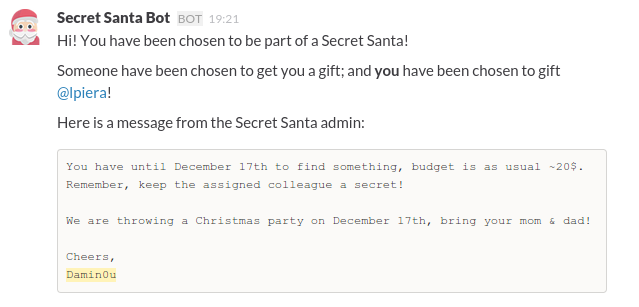
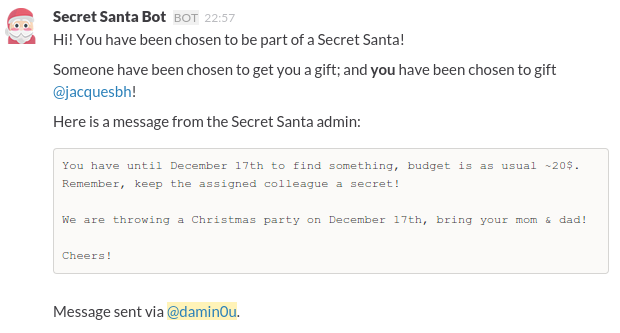
Store who is doing the request, and blame him :smiling_imp:

diff --git a/src/Controller/SantaController.php b/src/Controller/SantaController.php
@@ -3,6 +3,7 @@
 namespace Joli\SlackSecretSanta\Controller;
 
 use Bramdevries\Oauth\Client\Provider\Slack;
+use CL\Slack\Payload\AuthTestPayload;
 use CL\Slack\Transport\ApiClient;
 use Joli\SlackSecretSanta\SecretDispatcher;
 use Joli\SlackSecretSanta\UserExtractor;
@@ -16,8 +17,9 @@ use Symfony\Component\Routing\RouterInterface;
 
 class SantaController
 {
-    const STATE_SESSION_KEY = 'santa.slack.state';
-    const TOKEN_SESSION_KEY = 'santa.slack.token';
+    const STATE_SESSION_KEY   = 'santa.slack.state';
+    const TOKEN_SESSION_KEY   = 'santa.slack.token';
+    const USER_ID_SESSION_KEY = 'santa.slack.user_id';
 
     private $session;
     private $router;
@@ -43,7 +45,8 @@ class SantaController
 
     public function run(Request $request)
     {
-        $token = $this->session->get(self::TOKEN_SESSION_KEY);
+        $token  = $this->session->get(self::TOKEN_SESSION_KEY);
+        $userId = $this->session->get(self::USER_ID_SESSION_KEY);
 
         if (!($token instanceof AccessToken)) {
             return new RedirectResponse($this->router->generate('authenticate'));
@@ -63,7 +66,7 @@ class SantaController
 
             if (count($errors) < 1) {
                 $secretDispatcher = new SecretDispatcher($apiClient);
-                $result           = $secretDispatcher->dispatchTo($selectedUsers, $message);
+                $result           = $secretDispatcher->dispatchTo($selectedUsers, $message, $userId);
 
                 $request->getSession()->set(
                     $this->getResultSessionKey(
@@ -162,9 +165,19 @@ class SantaController
                 'code' => $request->query->get('code'),
             ]);
 
-            $this->session->set(self::TOKEN_SESSION_KEY, $token);
+            // Who Am I?
+            $test       = new AuthTestPayload();
+            $apiClient  = new ApiClient($token->getToken());
+            $response   = $apiClient->send($test);
 
-            return new RedirectResponse($this->router->generate('run'));
+            if ($response->isOk()) {
+                $this->session->set(self::TOKEN_SESSION_KEY, $token);
+                $this->session->set(self::USER_ID_SESSION_KEY, $response->getUserId());
+
+                return new RedirectResponse($this->router->generate('run'));
+            } else {
+                return new RedirectResponse($this->router->generate('homepage'));
+            }
         }
     }
 

diff --git a/src/SecretDispatcher.php b/src/SecretDispatcher.php
@@ -20,12 +20,13 @@ class SecretDispatcher
     }
 
     /**
-     * @param string[]    $userIds
+     * @param string[] $userIds
      * @param string|null $adminMessage
+     * @param null $adminUserId
      *
      * @return Result
      */
-    public function dispatchTo($userIds, $adminMessage = null)
+    public function dispatchTo($userIds, $adminMessage = null, $adminUserId = null)
     {
         $rudolph         = new Rudolph();
         $associatedUsers = $rudolph->associateUsers($userIds);
@@ -41,6 +42,10 @@ Someone have been chosen to get you a gift; and *you* have been chosen to gift <
 
                 if (!empty($adminMessage)) {
                     $text .= "\n\nHere is a message from the Secret Santa admin:\n\n```" . strip_tags($adminMessage) . '```';
+                }
+
+                if ($adminUserId) {
+                    $text .= sprintf("\n\nMessage sent via <@%s>.", $adminUserId);
                 }
 
                 $message = new ChatPostMessagePayload();
